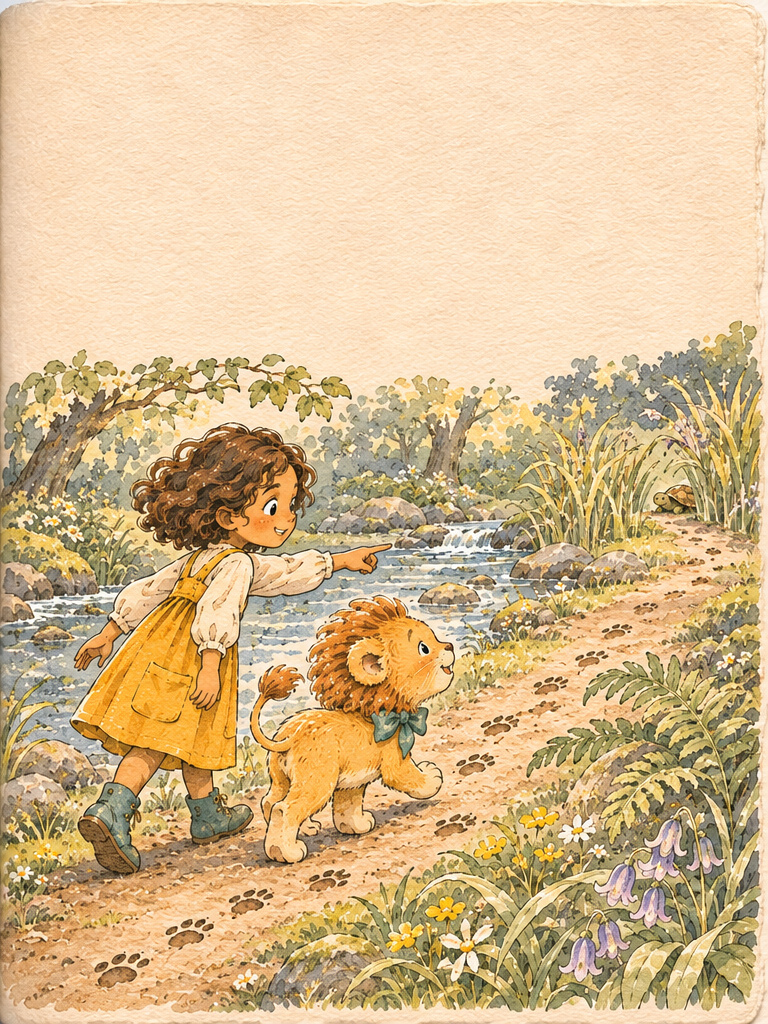
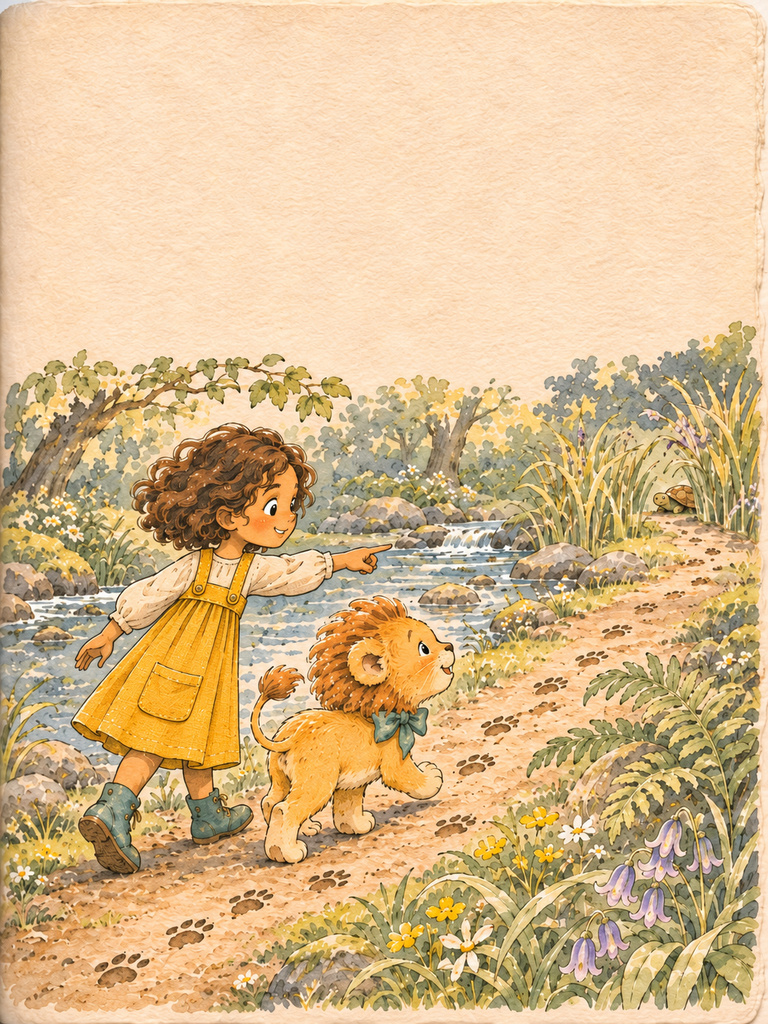
Correct Sarra artwork and stabilize story page rendering

Changed region(s): [[0.0, 0.3125, 1.0, 1.0]]

diff --git a/src/lib/story-page.ts b/src/lib/story-page.ts
@@ -184,26 +184,7 @@ function layout(context: CanvasRenderingContext2D, story: string, size: number, 
 
 const stepsIn = (row: Row) => row.tokens.length > 0 && row.tokens.every((t) => t.sound);
 
-/** The biggest type (between min and max) whose text fits a box, or null if even the smallest doesn't. */
-function fit(context: CanvasRenderingContext2D, story: string, boxW: number, boxH: number, min: number, max: number, f: Fonts): Text | null {
-  const fits = (text: Text) => text.height <= boxH && text.width <= boxW;
-  const smallest = layout(context, story, min, boxW, f);
-  if (!fits(smallest)) return null;
-  let best = smallest;
-  let low = min;
-  let high = max;
-  for (let i = 0; i < 6; i++) {
-    const mid = (low + high) / 2;
-    const text = layout(context, story, mid, boxW, f);
-    if (fits(text)) {
-      best = text;
-      low = mid;
-    } else high = mid;
-  }
-  return best;
-}
-
-function drawText(context: CanvasRenderingContext2D, text: Text, left: number, top: number, rtl: boolean, f: Fonts, paper: string) {
+function drawText(context: CanvasRenderingContext2D, text: Text, left: number, top: number, rtl: boolean, f: Fonts, paper: string, outline = false) {
   const { size } = text;
   context.textBaseline = "alphabetic";
   context.direction = rtl ? "rtl" : "ltr";
@@ -235,6 +216,14 @@ function drawText(context: CanvasRenderingContext2D, text: Text, left: number, t
       } else {
         context.font = `500 ${size}px ${f.story}`;
         context.textAlign = "left";
+        if (outline) {
+          context.save();
+          context.lineJoin = "round";
+          context.lineWidth = size * 0.12;
+          context.strokeStyle = paper;
+          context.strokeText(token.text, x, baseline);
+          context.restore();
+        }
         context.fillStyle = INK;
         context.fillText(token.text, x, baseline);
       }
@@ -250,7 +239,7 @@ export type WordBox = { left: number; right: number; top: number; bottom: number
 
 export type StoryPage = {
   url: string;
-  /** "space": the words fit in empty paper (in one or two blocks); "room": the picture was made smaller to fit them. */
+  /** "space": the words fit in empty paper; "room": the words are outlined over the full-page artwork. */
   mode: "space" | "room";
   /** Where the words are, so badges drawn over the page can avoid them. */
   words: WordBox[];
@@ -308,9 +297,8 @@ export async function composeStoryPage({
   canvas.height = H;
   const context = canvas.getContext("2d")!;
   const rtl = RTL_LANGUAGES.has(lang.split("-")[0]!.toLowerCase());
-  const maxSize = W * 0.066;
-  // Type sizes to try, biggest first: about 16px on a phone, then smaller before the picture is touched.
-  const SIZES = [0.044, 0.038, 0.032, 0.028].map((share) => W * share);
+  // Size relative to the page so the reader and print agree at different render resolutions.
+  const bodySize = W * 0.036;
 
   // ---------- 1. Words in empty paper: one block, or the paragraph split between two ----------
   const rows = Math.round(COLUMNS * aspect);
@@ -330,22 +318,17 @@ export async function composeStoryPage({
   // Wide boxes read like a book; a narrow column of short broken lines doesn't.
   const roominess = (w: number) => 0.8 + 0.2 * Math.min(1, w / (W * 0.75));
   const pad = W * 0.02;
-  const fitIn = (box: Box, text: string, min: number) => fit(context, text, Math.min(box.w - pad * 2, W * 0.86), box.h - pad * 2, min, maxSize, f);
-  const score = (box: Box, size: number) => size * preference((box.y + box.h / 2) / H) * roominess(box.w);
+  const fitIn = (box: Box, story: string) => {
+    const width = Math.min(box.w - pad * 2, W * 0.86);
+    const text = layout(context, story, bodySize, width, f);
+    return text.width <= width && text.height <= box.h - pad * 2 ? text : null;
+  };
+  const score = (box: Box) => preference((box.y + box.h / 2) / H) * roominess(box.w);
   // Cheap check before laying text out: the box must at least have the area the letters need.
-  const roomFor = (box: Box, text: string, size: number) => box.w * box.h >= text.length * size * size * 0.62;
+  const roomFor = (box: Box, text: string) => box.w * box.h >= text.length * bodySize * bodySize * 0.62;
   const units = storyUnits(story);
 
-  // The biggest type wins; at the same size one block beats a split one, then the nicer box.
-  const tier = (size: number) => SIZES.findIndex((t) => size >= t * 0.999);
-  type Candidate = { blocks: Placed[]; size: number; score: number };
-  const better = (a: Candidate, b: Candidate | null) => {
-    if (!b) return true;
-    if (tier(a.size) !== tier(b.size)) return tier(a.size) < tier(b.size);
-    if (a.blocks.length !== b.blocks.length) return a.blocks.length < b.blocks.length;
-    return a.score > b.score;
-  };
-  const smallest = SIZES.at(-1)!;
+  type Candidate = { blocks: Placed[]; score: number };
 
   let best: Candidate | null = null;
   let usable = masks[0]!;
@@ -356,7 +339,7 @@ export async function composeStoryPage({
     for (const rect of emptyRects(mask)) {
       const box = { x: rect.left * cellW, y: rect.top * cellH, w: (rect.right - rect.left) * cellW, h: (rect.bottom - rect.top) * cellH };
       const centre = (box.y + box.h / 2) / H;
-      if (box.w < W * 0.24 || box.h < smallest * 2.4 || centre < zoneTop || centre > zoneBottom) continue;
+      if (box.w < W * 0.24 || box.h < bodySize * 1.36 + pad * 2 || centre < zoneTop || centre > zoneBottom) continue;
       const overlaps = boxes.some((kept) => {
         const ix = Math.max(0, Math.min(kept.x + kept.w, box.x + box.w) - Math.max(kept.x, box.x));
         const iy = Math.max(0, Math.min(kept.y + kept.h, box.y + box.h) - Math.max(kept.y, box.y));
@@ -368,18 +351,15 @@ export async function composeStoryPage({
 
     // One block of words, in the best wide box.
     for (const box of boxes) {
-      if (box.w < W * 0.45 || !roomFor(box, story, smallest)) continue;
-      const text = fitIn(box, story, smallest);
+      if (box.w < W * 0.45 || !roomFor(box, story)) continue;
+      const text = fitIn(box, story);
       if (text) {
-        const candidate = { blocks: [{ box, text }], size: text.size, score: score(box, text.size) };
-        if (better(candidate, best)) best = candidate;
+        const candidate = { blocks: [{ box, text }], score: score(box) };
+        if (!best || candidate.score > best.score) best = candidate;
       }
     }
-    // Two blocks at one size: the start of the paragraph in the first box, the rest in the second —
-    // one above the other, or side by side in reading order. Only worth it for bigger type.
-    const needTier = best ? tier(best.size) : SIZES.length;
-    if (needTier > 0 && units.length > 1) {
-      const min = SIZES[Math.min(needTier, SIZES.length) - 1]!;
+    // When one block cannot fit, try two boxes in reading order.
+    if (!best && units.length > 1) {
       const pairBoxes = boxes.slice(0, 12);
       for (const a of pairBoxes) {
         for (const b of pairBoxes) {
@@ -391,21 +371,15 @@ export async function composeStoryPage({
           for (let k = 1; k < units.length; k++) {
             const start = joinUnits(units.slice(0, k));
             const rest = joinUnits(units.slice(k));
-            if (!roomFor(first, start, min) || !roomFor(second, rest, min)) continue;
-            const ta = fitIn(first, start, min);
-            const tb = ta && fitIn(second, rest, min);
+            if (!roomFor(first, start) || !roomFor(second, rest)) continue;
+            const ta = fitIn(first, start);
+            const tb = ta && fitIn(second, rest);
             if (!ta || !tb) continue;
-            // The same type size in both blocks, so they read as one text.
-            const size = Math.min(ta.size, tb.size);
             const candidate = {
-              blocks: [
-                { box: first, text: ta.size === size ? ta : layout(context, start, size, Math.min(first.w - pad * 2, W * 0.86), f) },
-                { box: second, text: tb.size === size ? tb : layout(context, rest, size, Math.min(second.w - pad * 2, W * 0.86), f) },
-              ],
-              size,
-              score: size * preference((first.y + first.h / 2) / H) * roominess(Math.min(first.w, second.w)) * 0.95,
+              blocks: [{ box: first, text: ta }, { box: second, text: tb }],
+              score: preference((first.y + first.h / 2) / H) * roominess(Math.min(first.w, second.w)),
             };
-            if (better(candidate, best)) best = candidate;
+            if (!best || candidate.score > best.score) best = candidate;
           }
         }
       }
@@ -436,42 +410,22 @@ export async function composeStoryPage({
     return finish(canvas, picture, "space", words);
   }
 
-  // ---------- 2. No room: make the picture smaller and give the words their own paper ----------
+  // ---------- 2. No room: keep the full page and outline only the letters ----------
   const margin = W * 0.06;
-  let text = layout(context, story, W * 0.054, W - margin * 2, f);
-  while (text.height + margin * 1.4 > H * 0.36 && text.size > SIZES.at(-1)! * 0.85) text = layout(context, story, text.size * 0.92, W - margin * 2, f);
+  const text = layout(context, story, bodySize, W - margin * 2, f);
   const band = text.height + margin * 1.4;
   const wordsBelow = position === "bottom";
-  const k = (H - band - margin * 0.5) / H;
-  const pw = W * k;
-  const ph = H * k;
-  const px = (W - pw) / 2;
-  const py = wordsBelow ? margin * 0.5 : band;
-  context.fillStyle = cells.paper;
-  context.fillRect(0, 0, W, H);
-  // The whole picture, laid on the page like a print with a soft shadow; nothing is covered or cut.
-  context.save();
-  context.shadowColor = "rgb(60 44 26 / 0.22)";
-  context.shadowBlur = W * 0.02;
-  context.shadowOffsetY = W * 0.006;
-  context.beginPath();
-  context.roundRect(px, py, pw, ph, W * 0.015);
-  context.fillStyle = cells.paper;
-  context.fill();
-  context.restore();
-  context.save();
-  context.beginPath();
-  context.roundRect(px, py, pw, ph, W * 0.015);
-  context.clip();
-  context.drawImage(picture, px, py, pw, ph);
-  if (debug) {
-    // The empty paper that was found, on the smaller picture: too little of it for the words.
-    context.fillStyle = "rgb(22 163 74 / 0.3)";
-    for (const [r, row] of usable.entries()) row.forEach((empty, c) => empty && context.fillRect(px + c * cellW * k, py + r * cellH * k, cellW * k, cellH * k));
+  if (band >= H || text.width > W - margin * 2) {
+    canvas.width = canvas.height = picture.width = picture.height = 0;
+    return null;
   }
-  context.restore();
-  const textTop = wordsBelow ? py + ph + (band - text.height) / 2 : (band - text.height) / 2 + margin * 0.15;
-  drawText(context, text, (W - text.width) / 2, textTop, rtl, f, cells.paper);
+  context.drawImage(picture, 0, 0);
+  if (debug) {
+    context.fillStyle = "rgb(22 163 74 / 0.3)";
+    for (const [r, row] of usable.entries()) row.forEach((empty, c) => empty && context.fillRect(c * cellW, r * cellH, cellW, cellH));
+  }
+  const textTop = (wordsBelow ? H - band : 0) + (band - text.height) / 2;
+  drawText(context, text, (W - text.width) / 2, textTop, rtl, f, cells.paper, true);
   if (debug) {
     context.strokeStyle = "#e11d48";
     context.lineWidth = 3;

diff --git a/src/app/read/[bookId]/reader.tsx b/src/app/read/[bookId]/reader.tsx
@@ -706,7 +706,11 @@ export function Reader({
 
       {/* Under the book: the page titles and their notes. The story itself is on the page (and stays here
           for screen readers); until a page is drawn, or when it carries no words, it shows here instead. */}
-      <div className={cn("mx-auto w-full max-w-3xl shrink-0 px-6 pt-1 text-center", single && "px-5 pb-3 safe-bottom", single && wordsOnPage && "sr-only")}>
+      <div className={cn(
+        "mx-auto w-full max-w-3xl shrink-0 px-6 pt-1 text-center",
+        single ? "px-5 pb-3 safe-bottom" : "h-[min(6rem,16dvh)] overflow-y-auto",
+        single && wordsOnPage && "sr-only",
+      )}>
         <div className="truncate text-[13px] text-ink-600">{backCover ? say.backCover : shown.map((page, index) => <span key={page.id}>{index > 0 && " · "}<bdi lang={page.lang}>{page.title}</bdi></span>)}</div>
         {backCover && <span className="sr-only">Wonder begins with a question.</span>}
         {captionPages.some((page) => page.story) && (
